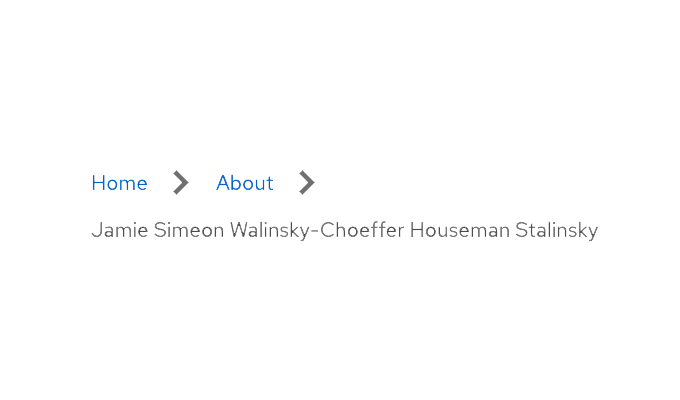
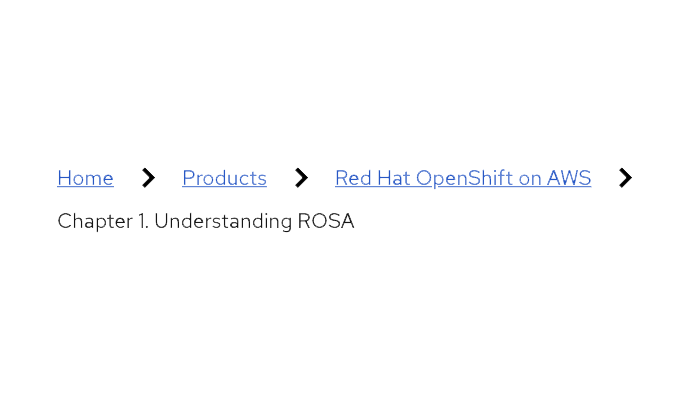
fix: Underline links - breadcrumb + navigation-secondary (#1743)
* fix(breadcrumb): properly link lightdom CSS

* docs(breadcrumb): use token value for margin in demos

* docs(breadcrumb): non interactive last item demo layout

* fix(breadcrumb): underline links

* fix(navigation-secondary): correctly link lightdom CSS in base demo

* fix(breadcrumb): dont remove underline on interactive states

* fix(navigation-secondary): underline links in dropdown menus

* fix(breadcrumb): lightdom path for build

* fix(navigation-secondary): lightdom path for build

* chore: add changeset

* docs(breadcrumb): include underlines in screenshot.png

* chore: update changeset content

* fix(navigation-secondary): underline logo

---------

diff --git a/elements/rh-navigation-secondary/rh-navigation-secondary-lightdom.css b/elements/rh-navigation-secondary/rh-navigation-secondary-lightdom.css
@@ -42,13 +42,12 @@ rh-navigation-secondary * {
 }
 
 rh-navigation-secondary-menu a {
-  text-decoration: none;
+  text-decoration: underline !important;
   color: var(--rh-color-interactive-blue-darker, #0066cc);
 }
 
 rh-navigation-secondary-menu a:hover {
   color: var(--rh-color-interactive-blue-darkest, #003366) !important;
-  text-decoration: none !important;
 }
 
 rh-navigation-secondary > [slot="logo"] {
@@ -61,7 +60,7 @@ rh-navigation-secondary > [slot="logo"] {
   /* TODO: remove for v2 */
   /* stylelint-disable-next-line */
   max-width: var(--rh-navigation-secondary-logo-max-width, 10em);
-  text-decoration: none;
+  text-decoration: underline;
   font-size: var(--rh-font-size-body-text-md, 1rem);
   letter-spacing: 0.01125em;
   margin-inline-start: var(--rh-space-lg, 16px);

diff --git a/elements/rh-breadcrumb/rh-breadcrumb-lightdom.css b/elements/rh-breadcrumb/rh-breadcrumb-lightdom.css
@@ -40,12 +40,11 @@ rh-breadcrumb > ol > li > a {
 }
 
 rh-breadcrumb > ol > li > a {
-  text-decoration: none;
+  text-decoration: underline;
 }
 
 rh-breadcrumb > ol > li > a:is(:hover, :focus, :active) {
   color: var(--_breadcrumb-link-color-hover);
-  text-decoration: underline;
 }
 
 rh-breadcrumb > ol > li > a:is(:focus, :focus-visible) {
@@ -68,6 +67,7 @@ rh-breadcrumb > ol > li > a:visited:hover {
 rh-breadcrumb > ol > li:last-child,
 rh-breadcrumb > ol > li > a[aria-current="page"] {
   color: var(--_breadcrumb-link-color-current-page);
+  text-decoration: none;
 }
 
 rh-breadcrumb > ol > li > a[aria-current="page"] {

diff --git a/elements/rh-breadcrumb/demo/color-context.html b/elements/rh-breadcrumb/demo/color-context.html
@@ -24,7 +24,7 @@
   </rh-breadcrumb>
 </rh-context-demo>
 
-<link rel="stylesheet" href="../../rh-breadcrumb-lightdom.css">
+<link rel="stylesheet" href="../rh-breadcrumb-lightdom.css">
 <script type="module">
   import '@rhds/elements/lib/elements/rh-context-demo/rh-context-demo.js';
   import '@rhds/elements/rh-breadcrumb/rh-breadcrumb.js';
@@ -32,6 +32,6 @@
 
 <style>
   .subtle-heading {
-    margin-block-start: 100px;
+    margin-block-start: var(--rh-space-6xl, 96px);
   }
 </style>

diff --git a/elements/rh-breadcrumb/demo/non-interactive-last-item.html b/elements/rh-breadcrumb/demo/non-interactive-last-item.html
@@ -22,13 +22,17 @@
   </ol>
 </rh-breadcrumb>
 
-<link rel="stylesheet" href="../../rh-breadcrumb-lightdom.css">
+<link rel="stylesheet" href="../rh-breadcrumb-lightdom.css">
 <script type="module">
   import '@rhds/elements/rh-breadcrumb/rh-breadcrumb.js';
 </script>
 
 <style>
+  main {
+    display: block;
+  }
+
   .subtle-heading {
-    margin-block-start: 100px;
+    margin-block-start: var(--rh-space-6xl, 96px);
   }
 </style>

diff --git a/elements/rh-breadcrumb/demo/custom-accessible-label.html b/elements/rh-breadcrumb/demo/custom-accessible-label.html
@@ -9,7 +9,7 @@
   </ol>
 </rh-breadcrumb>
 
-<link rel="stylesheet" href="../../rh-breadcrumb-lightdom.css">
+<link rel="stylesheet" href="../rh-breadcrumb-lightdom.css">
 <script type="module">
   import '@rhds/elements/rh-breadcrumb/rh-breadcrumb.js';
 </script>

diff --git a/elements/rh-breadcrumb/demo/subtle.html b/elements/rh-breadcrumb/demo/subtle.html
@@ -9,7 +9,7 @@
   </ol>
 </rh-breadcrumb>
 
-<link rel="stylesheet" href="../../rh-breadcrumb-lightdom.css">
+<link rel="stylesheet" href="../rh-breadcrumb-lightdom.css">
 <script type="module">
   import '@rhds/elements/rh-breadcrumb/rh-breadcrumb.js';
 </script>

diff --git a/.changeset/neat-buses-work.md b/.changeset/neat-buses-work.md
@@ -1,0 +1,7 @@
+---
+"@rhds/elements": patch
+---
+
+`<rh-breadcrumb>`: improved accessibility by adding underlines to links
+
+`<rh-navigation-secondary>`: improved accessibility by adding underlines to links
